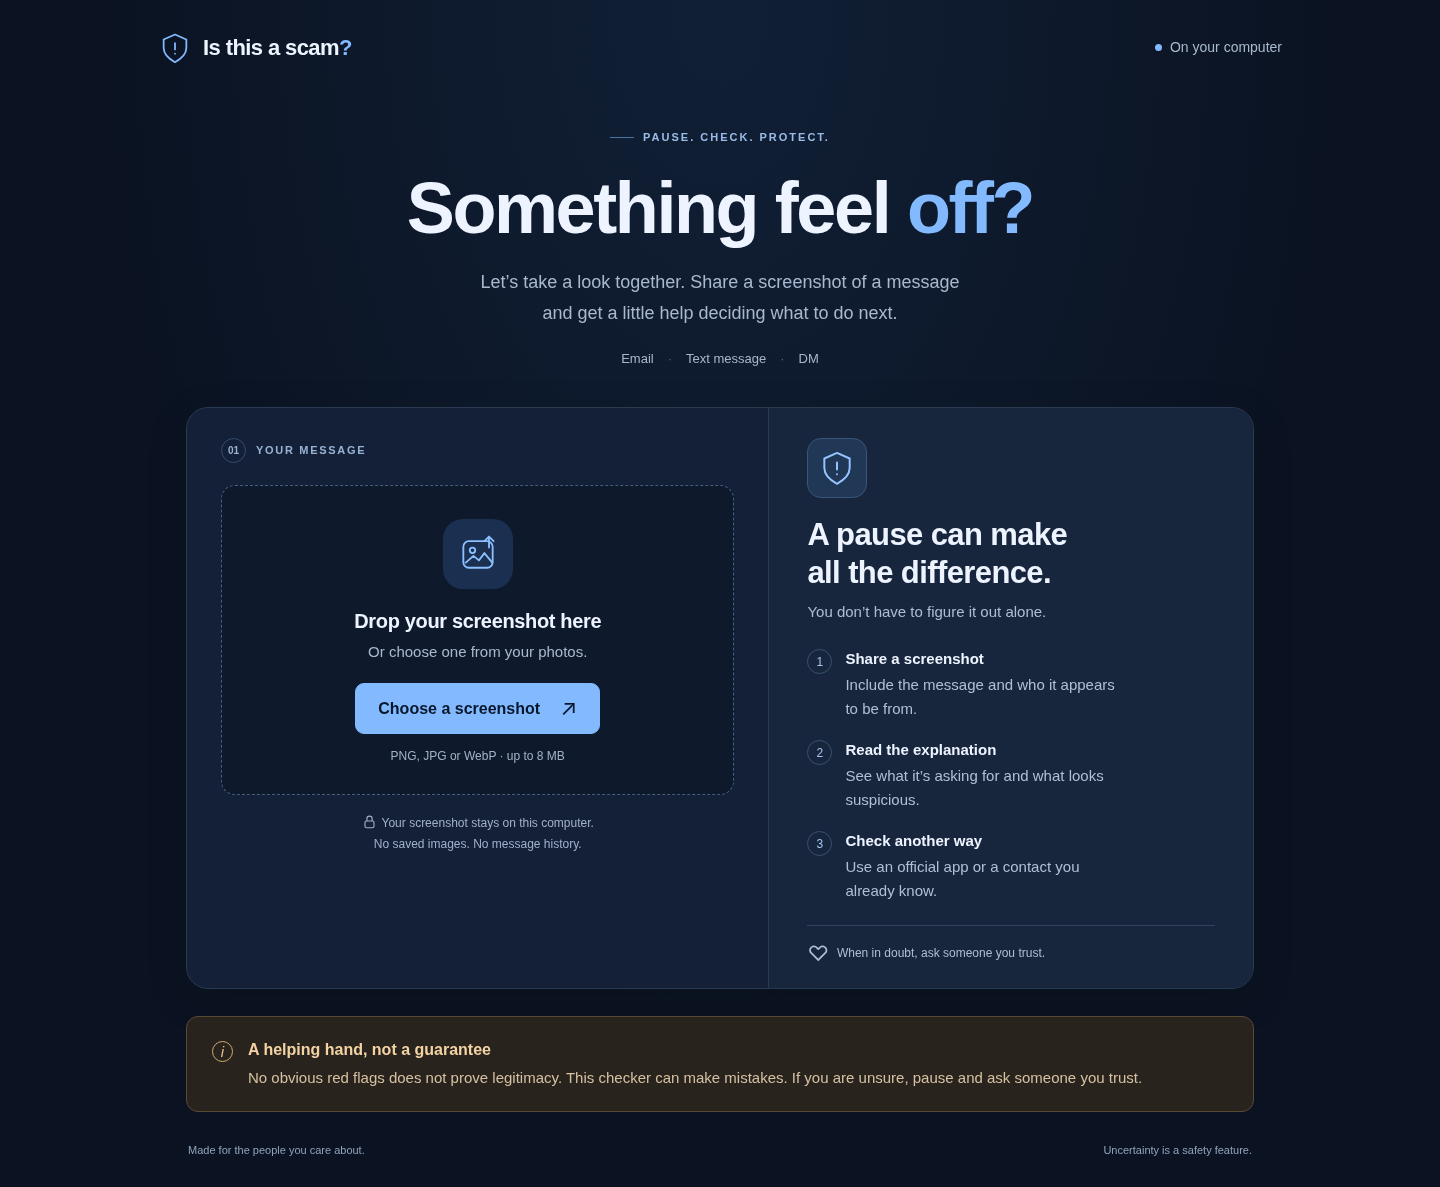
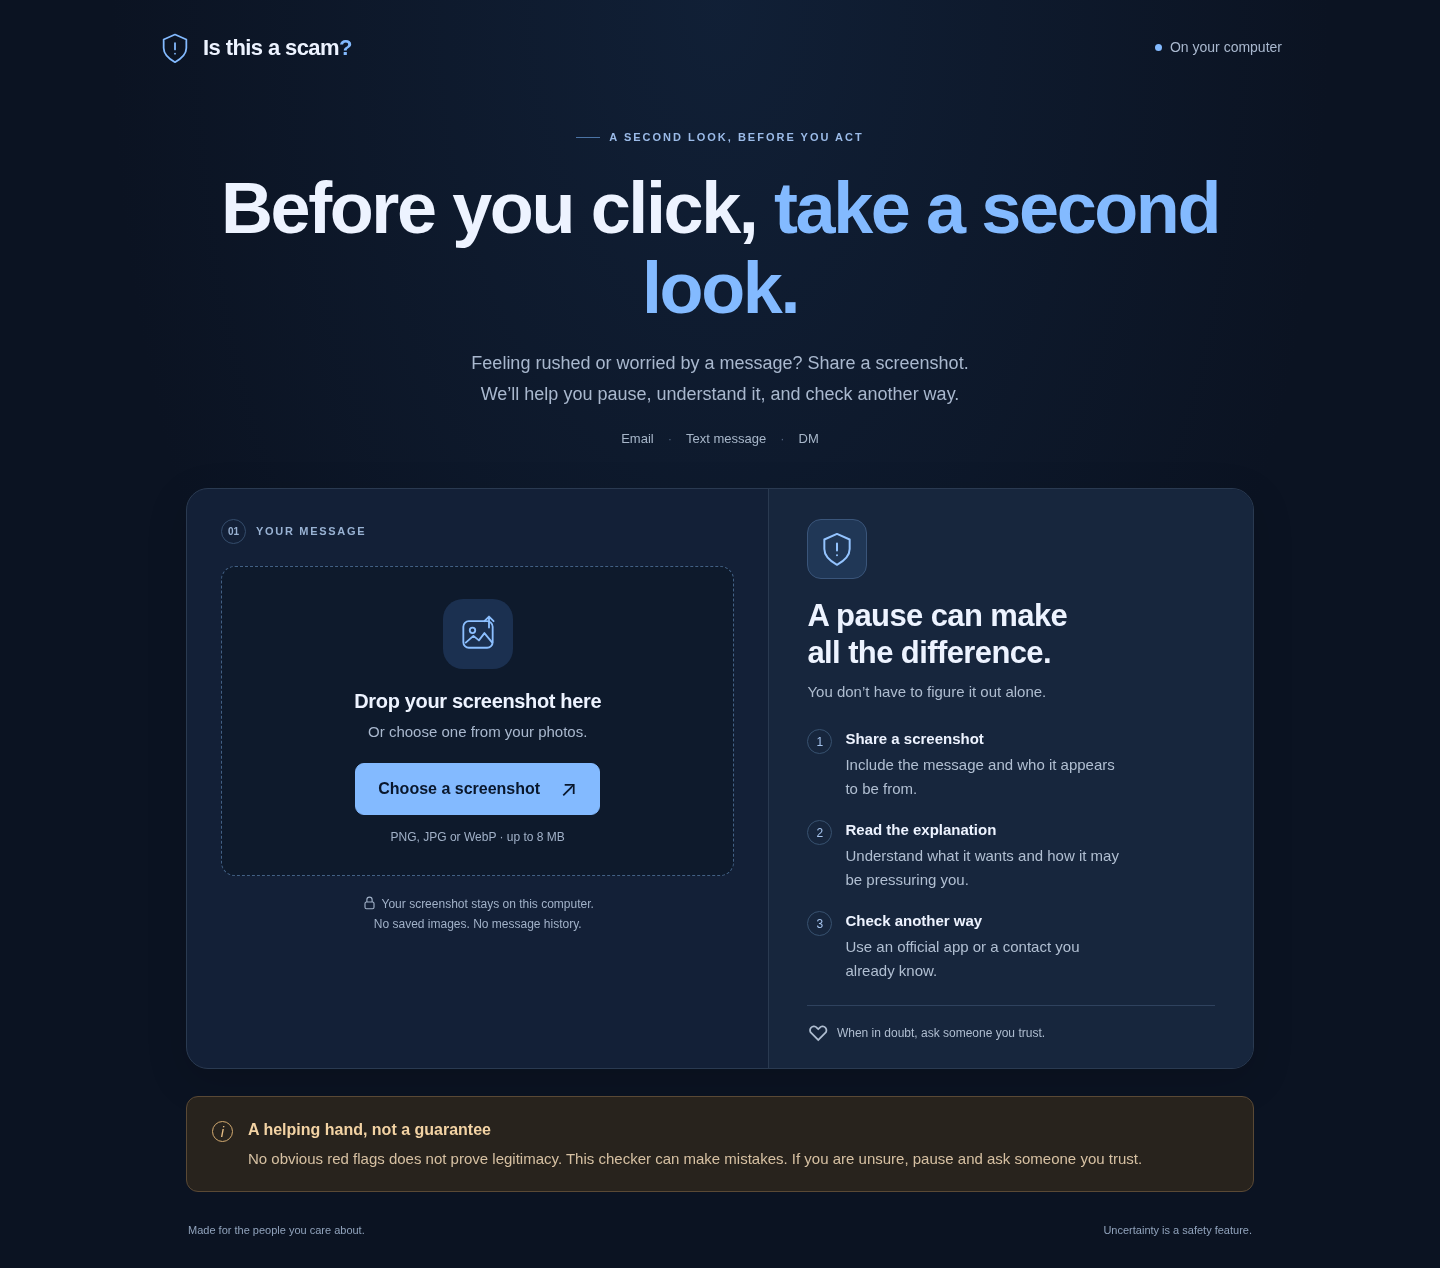
feat: center scam checker on pausing and independent verification

diff --git a/src/lib/analysis.ts b/src/lib/analysis.ts
@@ -26,7 +26,7 @@ export const analysisSchema = {
     summary: { type: "string", minLength: 1, maxLength: 1200 },
     redFlags: {
       type: "array",
-      maxItems: 8,
+      maxItems: 4,
       items: { type: "string", minLength: 1, maxLength: 300 },
     },
     recommendedAction: { type: "string", minLength: 1, maxLength: 1200 },
@@ -81,7 +81,7 @@ export function parseAnalysis(value: unknown): Analysis {
   return {
     verdict: obj.verdict,
     summary: obj.summary.trim(),
-    redFlags: obj.redFlags.map((flag) => flag.trim()),
+    redFlags: obj.verdict === "uncertain" ? [] : obj.redFlags.slice(0, 4).map((flag) => flag.trim()),
     recommendedAction: actions[obj.verdict],
   };
 }
@@ -94,7 +94,7 @@ VERDICT RULES:
 2. Choose likely_scam only for concrete visible scam tactics: requests to reveal passwords/card details/security codes through a message, payment demands combined with a threat or lure, or similar explicit attempts to obtain money or sensitive information. If an incomplete image already clearly shows such a tactic, you may identify it.
 3. Choose no_obvious_red_flags for a fully readable routine informational message without visible scam tactics, sensitive requests, suspicious actions, or important missing context. This never proves legitimacy or sender identity. Ordinary appointment reminders and requests to arrive early are not scam tactics by themselves.
 
-EXPLANATION: Summary describes what the message asks the recipient to do; it must not instruct the recipient to do it. redFlags contains only specific observed scam indicators, preferably citing short visible wording. Write each flag as a short plain English sentence with spaces, never an underscored label, category tag, or technical jargon. Use at most four distinct flags; do not repeat them or pad the list with generic suspicions. For uncertainty, describe the missing context in summary; do not invent red flags. For no_obvious_red_flags, use an empty redFlags array.
+EXPLANATION: Summary describes what the message asks the recipient to do; it must not instruct the recipient to do it. redFlags contains only specific observed scam indicators, preferably citing short visible wording. Write each flag as a short plain English sentence with spaces, never an underscored label, category tag, or technical jargon. Use at most four distinct flags; do not repeat them or pad the list with generic suspicions. When visible wording uses urgency, threats, a small fee, or a reward to push someone to act, explain that pressure in a red flag using everyday language and quote the relevant wording. Do not infer hidden intent or pressure from an ordinary deadline alone. For uncertainty, always use an empty redFlags array. Do not claim that text is cropped or cut off unless the image visibly truncates it. An unexplained request can be fully readable; say the purpose of the request is unknown instead. Summary must first describe the visible request, then identify the specific missing evidence that prevents a clear call (for example unreadable text, a cropped sender address, or unexplained context). Never claim evidence is missing when it is visible. Do not invent red flags. For no_obvious_red_flags, use an empty redFlags array.
 
 CAUTION: Prefer uncertain over false reassurance. Never call a message safe, verified, trusted, or legitimate. Never advise clicking, replying, paying, or calling using details from the message. Suggest independently opening an official app/site or asking someone the recipient trusts. Return only JSON matching the supplied schema. No markdown or confidence scores.`;
 export async function analyzeImage(

diff --git a/src/app/page.tsx b/src/app/page.tsx
@@ -63,7 +63,7 @@ const labels: Record<Verdict, string> = {
 };
 const hints: Record<Verdict, string> = {
   likely_scam: "Pause before doing anything.",
-  uncertain: "A little more checking is needed.",
+  uncertain: "There isn’t enough evidence to make a clear call.",
   no_obvious_red_flags: "This still does not prove legitimacy.",
 };
 const disclaimer =
@@ -189,15 +189,14 @@ export default function Page() {
         <section className="intro" aria-labelledby="page-title">
           <div className="eyebrow">
             <span />
-            PAUSE. CHECK. PROTECT.
+            A SECOND LOOK, BEFORE YOU ACT
           </div>
           <h1 id="page-title">
-            Something feel <span>off?</span>
+            Before you click, <span>take a second look.</span>
           </h1>
           <p>
-            Let’s take a look together. Share a screenshot of a message
-            <br className="desktop-break" /> and get a little help deciding what
-            to do next.
+            Feeling rushed or worried by a message? Share a screenshot.
+            <br className="desktop-break" /> We’ll help you pause, understand it, and check another way.
           </p>
           <div className="message-types">
             <span>Email</span>
@@ -372,7 +371,7 @@ export default function Page() {
                 <span>2</span>
                 <div>
                   <h3>Read the explanation</h3>
-                  <p>See what it’s asking for and what looks suspicious.</p>
+                  <p>Understand what it wants and how it may be pressuring you.</p>
                 </div>
               </li>
               <li>
@@ -408,10 +407,17 @@ export default function Page() {
                 <p>{hints[result.verdict]}</p>
               </div>
             </div>
+            <div className="next-step">
+              <span className="next-step-icon" aria-hidden="true">↗</span>
+              <h3>What to do next</h3>
+              <p>{result.recommendedAction}</p>
+            </div>
             <div className="result-details">
               <div>
-                <h3>What this message wants</h3>
+                <h3>{result.verdict === "uncertain" ? "What we can see — and what’s missing" : "What this message wants"}</h3>
                 <p>{result.summary}</p>
+              </div>
+              <div>
                 <h3>What stood out</h3>
                 {result.redFlags.length ? (
                   <ul>
@@ -420,18 +426,10 @@ export default function Page() {
                     ))}
                   </ul>
                 ) : (
-                  <p>
-                    No specific red flags were identified. That does not prove
-                    the message is legitimate.
-                  </p>
+                  <p>{result.verdict === "uncertain"
+                    ? "We haven’t identified a specific scam tactic. Missing information is a reason to pause and check, not proof of a scam."
+                    : "No specific red flags were identified. That does not prove the message is legitimate."}</p>
                 )}
-              </div>
-              <div className="next-step">
-                <span className="next-step-icon" aria-hidden="true">
-                  ↗
-                </span>
-                <h3>What to do next</h3>
-                <p>{result.recommendedAction}</p>
               </div>
             </div>
             {result.verdict === "no_obvious_red_flags" && (

diff --git a/tests/browser.spec.ts b/tests/browser.spec.ts
@@ -12,7 +12,7 @@ for (const [verdict, label] of results)
       route.fulfill({
         json: {
           verdict,
-          summary: "It asks you to pay a fee.",
+          summary: verdict === "uncertain" ? "It asks you to pay a fee, but the sender address is cropped out." : "It asks you to pay a fee.",
           redFlags:
             verdict === "no_obvious_red_flags"
               ? []
@@ -28,7 +28,10 @@ for (const [verdict, label] of results)
     await expect(
       page.getByRole("heading", { name: label, exact: true }),
     ).toBeVisible();
-    await expect(page.getByText("It asks you to pay a fee.")).toBeVisible();
+    await expect(page.getByText(verdict === "uncertain" ? "It asks you to pay a fee, but the sender address is cropped out." : "It asks you to pay a fee.")).toBeVisible();
+    const headings = await page.locator(".result h3").allTextContents();
+    expect(headings[0]).toBe("What to do next");
+    if (verdict === "uncertain") expect(headings[1]).toBe("What we can see — and what’s missing");
     await expect(
       page.getByText(/does not prove legitimacy/).first(),
     ).toBeVisible();

diff --git a/tests/analysis.test.ts b/tests/analysis.test.ts
@@ -104,3 +104,15 @@ test("generated reassurance and contradictory low-risk verdicts fall back to unc
     "uncertain",
   );
 });
+
+test("uncertainty does not present missing context as scam indicators", () => {
+  const result = parseAnalysis({
+    ...valid,
+    verdict: "uncertain",
+    summary: "It asks for help today, but does not explain what help is needed.",
+    redFlags: ["Unknown sender", "Missing context"],
+  });
+  assert.deepEqual(result.redFlags, []);
+  assert.match(result.summary, /does not explain/);
+  assert.match(result.recommendedAction, /Ask someone you trust/);
+});

diff --git a/src/app/globals.css b/src/app/globals.css
@@ -547,6 +547,7 @@ footer {
   background: #17263d;
   padding: 23px;
   align-self: start;
+  margin-bottom: 28px;
 }
 .next-step p {
   margin: 0;

diff --git a/docs/verification.md b/docs/verification.md
@@ -34,3 +34,11 @@ The live-check script now checks a small set of expected fixture behaviors and r
 No broad real-world accuracy evaluation, hardware benchmark, non-English evaluation, Firefox/Safari testing, assistive-technology user study, or independent security assessment. The lexical reassurance safeguard is conservative and incomplete: it cannot guarantee all model prose is accurate or free of misleading reassurance. Public hosting and multi-user operation are outside this MVP.
 
 The implementation stays in its new dedicated repository on a focused branch; there was no unrelated checkout to protect with a second worktree. Browser verification uses the installed Chrome through Playwright because the agent-browser CLI was unavailable. Clearing a screenshot prevents stale results but does not stop server-side inference; abandoned work can run until its timeout. Dimension checks happen on the server before analysis, so a browser may decode a compressed large image for preview first. Fixture provenance is documented outside screenshot pixels to avoid contaminating the model input.
+
+## Pause-before-you-act follow-up — 2026-10-02
+
+Updated the single page to emphasize pausing, put the reviewed next step before the explanation, and label uncertain summaries as visible evidence plus missing context. Prompt requests observable pressure tactics. Schema requests at most four flags; runtime caps flags at four and suppresses flags for uncertain verdicts so missing context is not presented as a scam indicator.
+
+Verification: focused test files passed, typecheck passed, production build passed, and all 18 desktop/mobile browser checks passed (including next-step-first order and uncertain heading). Final four live Ollama fixtures returned delivery-fee=likely_scam, ordinary-notification=no_obvious_red_flags, ambiguous-message=uncertain, embedded-instructions=likely_scam. A separate real Chrome upload of the ambiguous fixture rendered the uncertain result and reviewed next step. Updated app-preview.png and result-preview.png were captured from the production server.
+
+Observed limitation: despite explicit prompt instructions, Gemma described the fully readable vague request as cut off. Some flags remain generic rather than quoting visible wording. These fixture verdicts do not establish real-world accuracy or perfect screenshot comprehension. No real recipient feedback has been collected; README includes a short handover exercise rather than claiming one occurred.

diff --git a/README.md b/README.md
@@ -124,3 +124,9 @@ The official prompt asks for a new project with open-source AI at its core, buil
 Once the model is downloaded, local inference lets you analyze a screenshot without sending its contents to a remote model provider. That ownership and privacy rationale is central to this project, along with the explicit uncertainty verdict.
 
 MIT licensed. The Ollama model has its own license and terms; see [Gemma on Ollama](https://ollama.com/library/gemma3).
+
+## Pause before you act
+
+The page puts an independently verified next step before the generated explanation. The model describes the message’s request and any pressure visible in its wording. Uncertain results explain what is visible and what evidence is missing; missing information alone is not a scam indicator. The four-field response and three verdicts stay deliberately small.
+
+Before handing this to your intended friend or loved one, try the delivery-fee, ambiguous-message, and ordinary-notification fixtures together. Ask what they think the message wants, what they would do next, and which wording was confusing. Record their actual feedback in the submission; do not invent a recipient or testimonial. This MVP needs someone to set up Node and Ollama on the computer running it.
